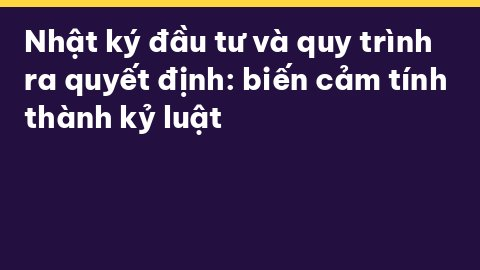
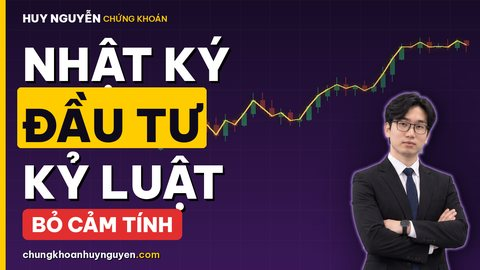
Trang chu: anh bia video moi theo mau bia kenh (chan dung anh Huy + hook), bo anh ytimg bi CSP chan
Claude-Session: https://claude.ai/code/session_01HdwfrC464x83xNtDevUcBX

diff --git a/index.html b/index.html
@@ -2115,11 +2115,11 @@ D.addEventListener('dragstart',function(e){if(e.target.closest&&e.target.closest
 D.addEventListener('keydown',function(e){var k=(e.key||'').toLowerCase(),c=e.ctrlKey||e.metaKey;if(e.key==='F12'||(c&&e.shiftKey&&(k==='i'||k==='j'||k==='c'))||(c&&(k==='u'||k==='s'))){e.preventDefault()}});
 })();
 </script>
-<script>window.HN_VS=[{"k": "LS01", "id": "scB3fSzFekk", "d": "2026-10-29", "t": "Lịch sử chứng khoán Việt Nam #1: Cả sàn chỉ có 2 mã, tăng 471% rồi mất 77% (2000–2003)"}, {"k": "BF01", "id": "S4zhXdNUhoY", "d": "2026-10-30", "t": "Giải mã 7 câu nói của Warren Buffett & Charlie Munger: mỗi câu là một quy trình đầu tư"}, {"k": "KT01", "id": "WapeULdUtQM", "d": "2026-10-31", "t": "Đọc báo cáo tài chính trong 10 phút: 3 bảng, 10 chỉ tiêu, 5 cờ đỏ (bài học Wirecard, Enron)"}, {"k": "KT02", "id": "weqzjUt7Tao", "d": "2026-11-01", "t": "Lãi kép: kỳ quan thứ 8 của đầu tư – Thí nghiệm 200 năm của Benjamin Franklin & quy tắc 72"}, {"k": "KT03", "id": "pldisvuBvUY", "d": "2026-11-02", "t": "P/E, P/B, ROE: dùng đúng và dùng sai – 3 chỉ số định giá cổ phiếu và 3 cái bẫy"}, {"k": "LS02", "id": "F8tra2F3iGU", "d": "2026-11-03", "t": "Lịch sử chứng khoán Việt Nam #2: Bong bóng lớn nhất – VN-Index 1.170 điểm rồi còn 235 điểm (2006–2009)"}, {"k": "LS03", "id": "6Umf8uUS4C4", "d": "2026-11-04", "t": "Lịch sử chứng khoán Việt Nam #3: Thời F0 – VN-Index 1.528 rồi còn 911 điểm (2021–2022)"}, {"k": "BF02", "id": "6Eo1lvK8Y00", "d": "2026-11-05", "t": "Giải mã 5 câu nói của Peter Lynch: mỗi câu là một quy trình đầu tư (Magellan 29,7%/năm)"}, {"k": "KT04", "id": "47vfi7FA1Bs", "d": "2026-11-06", "t": "Margin – con dao hai lưỡi: giảm 30% mất 60% vốn, khi nào bị call margin? Quy trình vay an toàn"}, {"k": "KT05", "id": "EKsECSpQNrc", "d": "2026-11-07", "t": "Cổ tức tiền và cổ tức cổ phiếu: ai thật sự có lợi? Cách tính giá điều chỉnh và 3 cái bẫy"}, {"k": "KT06", "id": "xzen2q75gaE", "d": "2026-11-08", "t": "Toán học của thua lỗ: lỗ 50% phải lãi 100% mới hòa vốn – cắt lỗ và quy tắc quản trị vốn 2%"}, {"k": "KT07", "id": "mjoeTck5Ovo", "d": "2026-11-09", "t": "Tâm lý đám đông: 5 sai lầm kinh điển của nhà đầu tư mới (FOMO, bầy đàn, sợ lỗ, tự tin, neo giá)"}, {"k": "LS04", "id": "y582E7BB8ig", "d": "2026-11-10", "t": "Khủng hoảng chứng khoán 2011–2012: lạm phát 18%, vụ bầu Kiên và 380 mã giảm sàn | Lịch sử CKVN #4"}, {"k": "TG01", "id": "kFDMVhWiilE", "d": "2026-11-11", "t": "Cơn sốt tulip 1637: 1 củ hoa 10.000 guilder – bong bóng hay huyền thoại? | Lịch sử CK thế giới #1"}, {"k": "BF03", "id": "1yqOFRYjbDA", "d": "2026-11-12", "t": "Giải mã tư duy Benjamin Graham: Mr. Market, biên an toàn và 5 quy trình đầu tư"}, {"k": "KT08", "id": "rTJfujto8WI", "d": "2026-11-13", "t": "Dòng tiền tự do (FCF) là gì? Vì sao quan trọng hơn lợi nhuận – cách tính trong 1 phút"}, {"k": "TG02", "id": "xe6ocbeHP9M", "d": "2026-11-14", "t": "Bong bóng South Sea 1720: Newton chốt lời, mua lại và mất 20.000 bảng | Lịch sử CK thế giới #2"}, {"k": "LS05", "id": "Tn8B0YZcCtc", "d": "2026-11-15", "t": "Năm 2018: VN-Index đỉnh 1.204, thương vụ Vinhomes 1,35 tỷ USD rồi mất 27% | Lịch sử CKVN #5"}, {"k": "KT12", "id": "kPGoPOunTMY", "d": "2026-11-16", "t": "Đầu tư hay đầu cơ? Định nghĩa của Benjamin Graham và 4 bước tự kiểm tra"}, {"k": "TG03", "id": "vjcZ5iK4j_c", "d": "2026-11-17", "t": "Đại khủng hoảng 1929: Dow Jones mất 89%, 25 năm mới về đỉnh | Lịch sử CK thế giới #3"}, {"k": "BF04", "id": "CZUxmgJ2QZc", "d": "2026-11-18", "t": "Giải mã tư duy Howard Marks: Tư duy bậc hai, con lắc tâm lý và 5 quy trình đầu tư"}, {"k": "KT09", "id": "6bfo543qlUY", "d": "2026-11-19", "t": "Đọc báo cáo tài chính ngân hàng: 7 chỉ số NIM, CASA, nợ xấu, bao phủ, CIR, ROE, LDR"}, {"k": "LS06", "id": "Ifb1x5N2X9U", "d": "2026-11-20", "t": "Covid 2020: VN-Index đáy 659 điểm rồi hồi phục 67% trong 9 tháng | Lịch sử CKVN #6"}, {"k": "TG04", "id": "TjF96wgJYbE", "d": "2026-11-21", "t": "Thứ Hai Đen tối 1987: Dow Jones mất 22,6% trong 1 ngày – vì sao? | Lịch sử CK thế giới #4"}, {"k": "BF05", "id": "WYEm-Zj76Fg", "d": "2026-11-22", "t": "Jesse Livermore: kiếm 100 triệu USD năm 1929 rồi phá sản – bài học quản trị rủi ro"}, {"k": "KT10", "id": "8495Ydb8BC4", "d": "2026-11-23", "t": "Đầu tư định kỳ DCA và quỹ ETF: mỗi tháng 3 triệu cho người bận rộn (ví dụ E1VFVN30)"}, {"k": "TG05", "id": "ncr7BQdFf-4", "d": "2026-11-24", "t": "Bong bóng dot-com 2000: Nasdaq mất 78%, 15 năm mới về đỉnh | Lịch sử CK thế giới #5"}, {"k": "LS07", "id": "YNq2pD0mEtE", "d": "2026-11-25", "t": "Nâng hạng chứng khoán Việt Nam: FTSE đã xong, MSCI còn bao xa? Dòng vốn ngoại thật sự ra sao"}, {"k": "BF06", "id": "AxwZ_UaRx6o", "d": "2026-11-26", "t": "Philip Fisher: 15 điểm chọn cổ phiếu tăng trưởng gom thành 5 quy trình (phương pháp scuttlebutt)"}, {"k": "TG06", "id": "FYQZaQ-F3TY", "d": "2026-11-27", "t": "Khủng hoảng tài chính châu Á 1997: Từ đồng baht đến 227 tấn vàng | Lịch sử chứng khoán thế giới"}, {"k": "KT11", "id": "pPkbeD1DAuc", "d": "2026-11-28", "t": "Cổ phiếu chu kỳ: vì sao P/E thấp lại có thể là đỉnh? Quy trình 4 bước cho thép, chứng khoán, BĐS"}, {"k": "TG07", "id": "ErsNPq8L8Cs", "d": "2026-11-29", "t": "Bong bóng Nhật Bản 1989: Nikkei mất 34 năm mới về đỉnh | Lịch sử chứng khoán thế giới"}, {"k": "TG08", "id": "0fDUPfCq5rI", "d": "2026-11-30", "t": "Cơn sốt GameStop 2021: Reddit, short squeeze và nút mua bị chặn | Lịch sử chứng khoán thế giới"}, {"k": "BF_CT0711F", "id": "nce6hMUU5Vg", "d": "2026-11-24", "t": "Giải mã 5 câu nói của John Bogle: mua cả đống rơm và vụ cá cược 1 triệu USD của Buffett", "h": "12:00", "f": "CT0711F"}, {"k": "BF_CT0711E", "id": "gxDQ_gjYsqE", "d": "2026-11-23", "t": "Lệnh mua đầu tiên của Warren Buffett năm 11 tuổi: lỗ 30% và 3 bài học suốt 80 năm", "h": "12:00", "f": "CT0711E"}, {"k": "BF_CT0711D", "id": "oSw7y4iT6zw", "d": "2026-11-22", "t": "3 cổ phiếu 180 USD thành 7 triệu USD: câu chuyện 75 năm không bán của Grace Groner", "h": "12:00", "f": "CT0711D"}, {"k": "BF_CT0711C", "id": "I-jHKJ8kggk", "d": "2026-11-21", "t": "Jesse Livermore: thắng 100 triệu USD năm 1929 rồi phá sản – bài học quản trị vốn", "h": "12:00", "f": "CT0711C"}, {"k": "BF_CT0711B", "id": "WLs3OiVRRGE", "d": "2026-11-20", "t": "Người gác cổng để lại 8 triệu USD: câu chuyện có thật của Ronald Read và 4 bài học đầu tư", "h": "12:00", "f": "CT0711B"}, {"k": "BF_CT0711A", "id": "VOmGFSJX8Eo", "d": "2026-11-19", "t": "Giải mã 7 câu nói của Charlie Munger: mỗi câu là một quy trình đầu tư", "h": "12:00", "f": "CT0711A"}, {"k": "KT_CH1411C", "id": "RzZo13CAKKg", "d": "2026-11-17", "t": "Quản trị vốn | Lỗ 50% phải lãi 100% mới hòa: toán học của cắt lỗ và tỷ trọng", "h": "12:00", "f": "CH1411C"}, {"k": "BC_CH1411B", "id": "vFlSAICPI50", "d": "2026-11-17", "t": "Định giá ngân hàng | P/B thấp chưa chắc rẻ: đọc P/B cùng ROE qua số liệu 12 ngân hàng", "h": "07:00", "f": "CH1411B"}, {"k": "BC_CH1611B", "id": "NIuqvgnA954", "d": "2026-11-16", "t": "Đọc BCTC 5 phút | HDB: lãi quý giảm 30,7% nhưng thu nhập lãi thuần vẫn +19,6%", "h": "12:00", "f": "CH1611B", "y": 1}, {"k": "BC_CH1611A", "id": "kX9ZJeXvg54", "d": "2026-11-16", "t": "Đọc BCTC 5 phút | TPB: lãi quý +57,4% nhưng nợ xấu nhích lên 2,10%", "h": "07:00", "f": "CH1611A", "y": 1}, {"k": "BC_CH1511B", "id": "8WYmGeB1vCE", "d": "2026-11-15", "t": "Định giá | P/E thấp có rẻ không? Một quý lợi nhuận có thể làm méo P/E", "h": "12:00", "f": "CH1511B", "y": 1}, {"k": "BC_CH1511A", "id": "UWuA8L2dofA", "d": "2026-11-15", "t": "Đọc BCTC 5 phút | VPB: nợ xấu 3,12% mà lợi nhuận 9 tháng vẫn +44,9%", "h": "07:00", "f": "CH1511A", "y": 1}, {"k": "BC_CH0811B", "id": "RbYtmn8Bnsg", "d": "2026-11-14", "t": "Tăng trưởng và định giá: PEG, biên an toàn và vì sao không có con số kỳ diệu", "h": "12:00", "f": "CH0811B", "y": 1}, {"k": "BC_CH1411A", "id": "KWzcJ4-xLwo", "d": "2026-11-14", "t": "Đọc BCTC 5 phút | TCB: lợi nhuận +23,7% nhưng chi phí dự phòng giảm 38,8%", "h": "07:00", "f": "CH1411A", "y": 1}, {"k": "LS_CH1311C", "id": "Cj4SpUjaZIc", "d": "2026-11-13", "t": "Bài học lịch sử | 2021–2022: VN-Index từ khoảng 1.529 xuống khoảng 874 điểm", "h": "12:00", "f": "CH1311C", "y": 1}, {"k": "BC_CH1311A", "id": "p1WIrjOOSBQ", "d": "2026-11-13", "t": "Đọc BCTC 5 phút | ACB: thu nhập lãi thuần +21,1% nhưng lãi ròng chỉ +9,8%", "h": "07:00", "f": "CH1311A", "y": 1}, {"k": "BC_CH1211B", "id": "lMJgLmXF108", "d": "2026-11-12", "t": "ROE và phân tích DuPont: cùng ROE 20% nhưng rủi ro khác nhau thế nào?", "h": "12:00", "f": "CH1211B", "y": 1}, {"k": "BC_CH1211A", "id": "R2y3PebFdeE", "d": "2026-11-12", "t": "Đọc BCTC 5 phút | HPG: lợi nhuận +106% nhưng chi phí lãi vay +118%", "h": "07:00", "f": "CH1211A", "y": 1}, {"k": "BC_CH1111B", "id": "CralJlEYBdM", "d": "2026-11-11", "t": "Dòng tiền kinh doanh: vì sao doanh nghiệp báo lãi vẫn có thể cạn tiền?", "h": "12:00", "f": "CH1111B", "y": 1}, {"k": "BC_CH1111A", "id": "y3_Ax6NsKJo", "d": "2026-11-11", "t": "Đọc BCTC 5 phút | MBB: lợi nhuận quý 3 +44,3% nhưng nợ xấu cũng tăng", "h": "07:00", "f": "CH1111A", "y": 1}, {"k": "KT_CH1011B", "id": "kopCX0gRwrQ", "d": "2026-11-10", "t": "Gửi tiết kiệm an toàn? Chưa chắc: lãi thực, lạm phát và sức mua sau 10 năm", "h": "12:00", "f": "CH1011B", "y": 1}, {"k": "BC_CH1011A", "id": "GAgFD9gqhbU", "d": "2026-11-10", "t": "Đọc BCTC 5 phút | VCB: lợi nhuận +0,1% nhưng thu nhập lãi thuần +39,1%", "h": "07:00", "f": "CH1011A", "y": 1}, {"k": "KT_CH0911B", "id": "TysF6gcomxY", "d": "2026-11-09", "t": "Nhật ký đầu tư và quy trình ra quyết định: biến cảm tính thành kỷ luật", "h": "12:00", "f": "CH0911B", "y": 1}, {"k": "BC_CH0911A", "id": "ZQ52qOt2UYU", "d": "2026-11-09", "t": "Hàng tồn kho và khoản phải thu: những cờ đỏ trong báo cáo tài chính", "h": "07:00", "f": "CH0911A", "y": 1}, {"k": "LS_YT_Zm_z55FE2x4", "id": "Zm_z55FE2x4", "d": "2026-11-08", "t": "Từ 1.170 xuống 235 điểm: cú sập 2008 dạy gì về đòn bẩy và tâm lý", "y": 1, "h": "06:00"}, {"k": "BC_YT_CpzzD_hQp08", "id": "CpzzD-hQp08", "d": "2026-11-08", "t": "Cổ phiếu ngành chu kỳ: vì sao P/E thấp chưa chắc rẻ?", "y": 1, "h": "06:00"}, {"k": "KT_YT_ubW2r_DysOQ", "id": "ubW2r-DysOQ", "d": "2026-11-08", "t": "Phân bổ danh mục: bao nhiêu mã, bao nhiêu phần trăm mỗi mã là hợp lý?", "y": 1, "h": "06:00"}, {"k": "BC_YT_TkhhRZTcavo", "id": "TkhhRZTcavo", "d": "2026-11-07", "t": "Báo cáo lưu chuyển tiền tệ: lợi nhuận có thật khi tiền không về túi?", "y": 1, "h": "06:00"}, {"k": "KT_YT_G_JB67u24RQ", "id": "G_JB67u24RQ", "d": "2026-11-07", "t": "Lãi kép và tích sản: vì sao thời gian quan trọng hơn số tiền anh chị có", "y": 1, "h": "06:00"}, {"k": "BC_YT_hlRGGFESZNg", "id": "hlRGGFESZNg", "d": "2026-11-07", "t": "P/B và ROE: định giá cổ phiếu ngân hàng không cần công thức phức tạp", "y": 1, "h": "06:00"}, {"k": "LS_YT_0bCtOvCL0l0", "id": "0bCtOvCL0l0", "d": "2026-11-06", "t": "Bong bóng chứng khoán 2007: VN-Index từ 1.170 điểm và những bài học còn nguyên", "y": 1, "h": "06:00"}, {"k": "BC_YT_s6UGOcw7Rqg", "id": "s6UGOcw7Rqg", "d": "2026-11-06", "t": "Đọc bảng cân đối kế toán: nợ vay, hàng tồn kho, khoản phải thu và vốn chủ sở hữu", "y": 1, "h": "06:00"}]</script>
+<script>window.HN_VS=[{"k": "LS01", "id": "scB3fSzFekk", "d": "2026-10-29", "t": "Lịch sử chứng khoán Việt Nam #1: Cả sàn chỉ có 2 mã, tăng 471% rồi mất 77% (2000–2003)"}, {"k": "BF01", "id": "S4zhXdNUhoY", "d": "2026-10-30", "t": "Giải mã 7 câu nói của Warren Buffett & Charlie Munger: mỗi câu là một quy trình đầu tư"}, {"k": "KT01", "id": "WapeULdUtQM", "d": "2026-10-31", "t": "Đọc báo cáo tài chính trong 10 phút: 3 bảng, 10 chỉ tiêu, 5 cờ đỏ (bài học Wirecard, Enron)"}, {"k": "KT02", "id": "weqzjUt7Tao", "d": "2026-11-01", "t": "Lãi kép: kỳ quan thứ 8 của đầu tư – Thí nghiệm 200 năm của Benjamin Franklin & quy tắc 72"}, {"k": "KT03", "id": "pldisvuBvUY", "d": "2026-11-02", "t": "P/E, P/B, ROE: dùng đúng và dùng sai – 3 chỉ số định giá cổ phiếu và 3 cái bẫy"}, {"k": "LS02", "id": "F8tra2F3iGU", "d": "2026-11-03", "t": "Lịch sử chứng khoán Việt Nam #2: Bong bóng lớn nhất – VN-Index 1.170 điểm rồi còn 235 điểm (2006–2009)"}, {"k": "LS03", "id": "6Umf8uUS4C4", "d": "2026-11-04", "t": "Lịch sử chứng khoán Việt Nam #3: Thời F0 – VN-Index 1.528 rồi còn 911 điểm (2021–2022)"}, {"k": "BF02", "id": "6Eo1lvK8Y00", "d": "2026-11-05", "t": "Giải mã 5 câu nói của Peter Lynch: mỗi câu là một quy trình đầu tư (Magellan 29,7%/năm)"}, {"k": "KT04", "id": "47vfi7FA1Bs", "d": "2026-11-06", "t": "Margin – con dao hai lưỡi: giảm 30% mất 60% vốn, khi nào bị call margin? Quy trình vay an toàn"}, {"k": "KT05", "id": "EKsECSpQNrc", "d": "2026-11-07", "t": "Cổ tức tiền và cổ tức cổ phiếu: ai thật sự có lợi? Cách tính giá điều chỉnh và 3 cái bẫy"}, {"k": "KT06", "id": "xzen2q75gaE", "d": "2026-11-08", "t": "Toán học của thua lỗ: lỗ 50% phải lãi 100% mới hòa vốn – cắt lỗ và quy tắc quản trị vốn 2%"}, {"k": "KT07", "id": "mjoeTck5Ovo", "d": "2026-11-09", "t": "Tâm lý đám đông: 5 sai lầm kinh điển của nhà đầu tư mới (FOMO, bầy đàn, sợ lỗ, tự tin, neo giá)"}, {"k": "LS04", "id": "y582E7BB8ig", "d": "2026-11-10", "t": "Khủng hoảng chứng khoán 2011–2012: lạm phát 18%, vụ bầu Kiên và 380 mã giảm sàn | Lịch sử CKVN #4"}, {"k": "TG01", "id": "kFDMVhWiilE", "d": "2026-11-11", "t": "Cơn sốt tulip 1637: 1 củ hoa 10.000 guilder – bong bóng hay huyền thoại? | Lịch sử CK thế giới #1"}, {"k": "BF03", "id": "1yqOFRYjbDA", "d": "2026-11-12", "t": "Giải mã tư duy Benjamin Graham: Mr. Market, biên an toàn và 5 quy trình đầu tư"}, {"k": "KT08", "id": "rTJfujto8WI", "d": "2026-11-13", "t": "Dòng tiền tự do (FCF) là gì? Vì sao quan trọng hơn lợi nhuận – cách tính trong 1 phút"}, {"k": "TG02", "id": "xe6ocbeHP9M", "d": "2026-11-14", "t": "Bong bóng South Sea 1720: Newton chốt lời, mua lại và mất 20.000 bảng | Lịch sử CK thế giới #2"}, {"k": "LS05", "id": "Tn8B0YZcCtc", "d": "2026-11-15", "t": "Năm 2018: VN-Index đỉnh 1.204, thương vụ Vinhomes 1,35 tỷ USD rồi mất 27% | Lịch sử CKVN #5"}, {"k": "KT12", "id": "kPGoPOunTMY", "d": "2026-11-16", "t": "Đầu tư hay đầu cơ? Định nghĩa của Benjamin Graham và 4 bước tự kiểm tra"}, {"k": "TG03", "id": "vjcZ5iK4j_c", "d": "2026-11-17", "t": "Đại khủng hoảng 1929: Dow Jones mất 89%, 25 năm mới về đỉnh | Lịch sử CK thế giới #3"}, {"k": "BF04", "id": "CZUxmgJ2QZc", "d": "2026-11-18", "t": "Giải mã tư duy Howard Marks: Tư duy bậc hai, con lắc tâm lý và 5 quy trình đầu tư"}, {"k": "KT09", "id": "6bfo543qlUY", "d": "2026-11-19", "t": "Đọc báo cáo tài chính ngân hàng: 7 chỉ số NIM, CASA, nợ xấu, bao phủ, CIR, ROE, LDR"}, {"k": "LS06", "id": "Ifb1x5N2X9U", "d": "2026-11-20", "t": "Covid 2020: VN-Index đáy 659 điểm rồi hồi phục 67% trong 9 tháng | Lịch sử CKVN #6"}, {"k": "TG04", "id": "TjF96wgJYbE", "d": "2026-11-21", "t": "Thứ Hai Đen tối 1987: Dow Jones mất 22,6% trong 1 ngày – vì sao? | Lịch sử CK thế giới #4"}, {"k": "BF05", "id": "WYEm-Zj76Fg", "d": "2026-11-22", "t": "Jesse Livermore: kiếm 100 triệu USD năm 1929 rồi phá sản – bài học quản trị rủi ro"}, {"k": "KT10", "id": "8495Ydb8BC4", "d": "2026-11-23", "t": "Đầu tư định kỳ DCA và quỹ ETF: mỗi tháng 3 triệu cho người bận rộn (ví dụ E1VFVN30)"}, {"k": "TG05", "id": "ncr7BQdFf-4", "d": "2026-11-24", "t": "Bong bóng dot-com 2000: Nasdaq mất 78%, 15 năm mới về đỉnh | Lịch sử CK thế giới #5"}, {"k": "LS07", "id": "YNq2pD0mEtE", "d": "2026-11-25", "t": "Nâng hạng chứng khoán Việt Nam: FTSE đã xong, MSCI còn bao xa? Dòng vốn ngoại thật sự ra sao"}, {"k": "BF06", "id": "AxwZ_UaRx6o", "d": "2026-11-26", "t": "Philip Fisher: 15 điểm chọn cổ phiếu tăng trưởng gom thành 5 quy trình (phương pháp scuttlebutt)"}, {"k": "TG06", "id": "FYQZaQ-F3TY", "d": "2026-11-27", "t": "Khủng hoảng tài chính châu Á 1997: Từ đồng baht đến 227 tấn vàng | Lịch sử chứng khoán thế giới"}, {"k": "KT11", "id": "pPkbeD1DAuc", "d": "2026-11-28", "t": "Cổ phiếu chu kỳ: vì sao P/E thấp lại có thể là đỉnh? Quy trình 4 bước cho thép, chứng khoán, BĐS"}, {"k": "TG07", "id": "ErsNPq8L8Cs", "d": "2026-11-29", "t": "Bong bóng Nhật Bản 1989: Nikkei mất 34 năm mới về đỉnh | Lịch sử chứng khoán thế giới"}, {"k": "TG08", "id": "0fDUPfCq5rI", "d": "2026-11-30", "t": "Cơn sốt GameStop 2021: Reddit, short squeeze và nút mua bị chặn | Lịch sử chứng khoán thế giới"}, {"k": "BF_CT0711F", "id": "nce6hMUU5Vg", "d": "2026-11-24", "t": "Giải mã 5 câu nói của John Bogle: mua cả đống rơm và vụ cá cược 1 triệu USD của Buffett", "h": "12:00", "f": "CT0711F"}, {"k": "BF_CT0711E", "id": "gxDQ_gjYsqE", "d": "2026-11-23", "t": "Lệnh mua đầu tiên của Warren Buffett năm 11 tuổi: lỗ 30% và 3 bài học suốt 80 năm", "h": "12:00", "f": "CT0711E"}, {"k": "BF_CT0711D", "id": "oSw7y4iT6zw", "d": "2026-11-22", "t": "3 cổ phiếu 180 USD thành 7 triệu USD: câu chuyện 75 năm không bán của Grace Groner", "h": "12:00", "f": "CT0711D"}, {"k": "BF_CT0711C", "id": "I-jHKJ8kggk", "d": "2026-11-21", "t": "Jesse Livermore: thắng 100 triệu USD năm 1929 rồi phá sản – bài học quản trị vốn", "h": "12:00", "f": "CT0711C"}, {"k": "BF_CT0711B", "id": "WLs3OiVRRGE", "d": "2026-11-20", "t": "Người gác cổng để lại 8 triệu USD: câu chuyện có thật của Ronald Read và 4 bài học đầu tư", "h": "12:00", "f": "CT0711B"}, {"k": "BF_CT0711A", "id": "VOmGFSJX8Eo", "d": "2026-11-19", "t": "Giải mã 7 câu nói của Charlie Munger: mỗi câu là một quy trình đầu tư", "h": "12:00", "f": "CT0711A"}, {"k": "KT_CH1411C", "id": "RzZo13CAKKg", "d": "2026-11-17", "t": "Quản trị vốn | Lỗ 50% phải lãi 100% mới hòa: toán học của cắt lỗ và tỷ trọng", "h": "12:00", "f": "CH1411C"}, {"k": "BC_CH1411B", "id": "vFlSAICPI50", "d": "2026-11-17", "t": "Định giá ngân hàng | P/B thấp chưa chắc rẻ: đọc P/B cùng ROE qua số liệu 12 ngân hàng", "h": "07:00", "f": "CH1411B"}, {"k": "BC_CH1611B", "id": "NIuqvgnA954", "d": "2026-11-16", "t": "Đọc BCTC 5 phút | HDB: lãi quý giảm 30,7% nhưng thu nhập lãi thuần vẫn +19,6%", "h": "12:00", "f": "CH1611B"}, {"k": "BC_CH1611A", "id": "kX9ZJeXvg54", "d": "2026-11-16", "t": "Đọc BCTC 5 phút | TPB: lãi quý +57,4% nhưng nợ xấu nhích lên 2,10%", "h": "07:00", "f": "CH1611A"}, {"k": "BC_CH1511B", "id": "8WYmGeB1vCE", "d": "2026-11-15", "t": "Định giá | P/E thấp có rẻ không? Một quý lợi nhuận có thể làm méo P/E", "h": "12:00", "f": "CH1511B"}, {"k": "BC_CH1511A", "id": "UWuA8L2dofA", "d": "2026-11-15", "t": "Đọc BCTC 5 phút | VPB: nợ xấu 3,12% mà lợi nhuận 9 tháng vẫn +44,9%", "h": "07:00", "f": "CH1511A"}, {"k": "BC_CH0811B", "id": "RbYtmn8Bnsg", "d": "2026-11-14", "t": "Tăng trưởng và định giá: PEG, biên an toàn và vì sao không có con số kỳ diệu", "h": "12:00", "f": "CH0811B"}, {"k": "BC_CH1411A", "id": "KWzcJ4-xLwo", "d": "2026-11-14", "t": "Đọc BCTC 5 phút | TCB: lợi nhuận +23,7% nhưng chi phí dự phòng giảm 38,8%", "h": "07:00", "f": "CH1411A"}, {"k": "LS_CH1311C", "id": "Cj4SpUjaZIc", "d": "2026-11-13", "t": "Bài học lịch sử | 2021–2022: VN-Index từ khoảng 1.529 xuống khoảng 874 điểm", "h": "12:00", "f": "CH1311C"}, {"k": "BC_CH1311A", "id": "p1WIrjOOSBQ", "d": "2026-11-13", "t": "Đọc BCTC 5 phút | ACB: thu nhập lãi thuần +21,1% nhưng lãi ròng chỉ +9,8%", "h": "07:00", "f": "CH1311A"}, {"k": "BC_CH1211B", "id": "lMJgLmXF108", "d": "2026-11-12", "t": "ROE và phân tích DuPont: cùng ROE 20% nhưng rủi ro khác nhau thế nào?", "h": "12:00", "f": "CH1211B"}, {"k": "BC_CH1211A", "id": "R2y3PebFdeE", "d": "2026-11-12", "t": "Đọc BCTC 5 phút | HPG: lợi nhuận +106% nhưng chi phí lãi vay +118%", "h": "07:00", "f": "CH1211A"}, {"k": "BC_CH1111B", "id": "CralJlEYBdM", "d": "2026-11-11", "t": "Dòng tiền kinh doanh: vì sao doanh nghiệp báo lãi vẫn có thể cạn tiền?", "h": "12:00", "f": "CH1111B"}, {"k": "BC_CH1111A", "id": "y3_Ax6NsKJo", "d": "2026-11-11", "t": "Đọc BCTC 5 phút | MBB: lợi nhuận quý 3 +44,3% nhưng nợ xấu cũng tăng", "h": "07:00", "f": "CH1111A"}, {"k": "KT_CH1011B", "id": "kopCX0gRwrQ", "d": "2026-11-10", "t": "Gửi tiết kiệm an toàn? Chưa chắc: lãi thực, lạm phát và sức mua sau 10 năm", "h": "12:00", "f": "CH1011B"}, {"k": "BC_CH1011A", "id": "GAgFD9gqhbU", "d": "2026-11-10", "t": "Đọc BCTC 5 phút | VCB: lợi nhuận +0,1% nhưng thu nhập lãi thuần +39,1%", "h": "07:00", "f": "CH1011A"}, {"k": "KT_CH0911B", "id": "TysF6gcomxY", "d": "2026-11-09", "t": "Nhật ký đầu tư và quy trình ra quyết định: biến cảm tính thành kỷ luật", "h": "12:00", "f": "CH0911B"}, {"k": "BC_CH0911A", "id": "ZQ52qOt2UYU", "d": "2026-11-09", "t": "Hàng tồn kho và khoản phải thu: những cờ đỏ trong báo cáo tài chính", "h": "07:00", "f": "CH0911A"}, {"k": "LS_YT_Zm_z55FE2x4", "id": "Zm_z55FE2x4", "d": "2026-11-08", "t": "Từ 1.170 xuống 235 điểm: cú sập 2008 dạy gì về đòn bẩy và tâm lý", "h": "06:00", "f": "YT_Zm_z55FE2x4"}, {"k": "BC_YT_CpzzD_hQp08", "id": "CpzzD-hQp08", "d": "2026-11-08", "t": "Cổ phiếu ngành chu kỳ: vì sao P/E thấp chưa chắc rẻ?", "h": "06:00", "f": "YT_CpzzD_hQp08"}, {"k": "KT_YT_ubW2r_DysOQ", "id": "ubW2r-DysOQ", "d": "2026-11-08", "t": "Phân bổ danh mục: bao nhiêu mã, bao nhiêu phần trăm mỗi mã là hợp lý?", "h": "06:00", "f": "YT_ubW2r_DysOQ"}, {"k": "BC_YT_TkhhRZTcavo", "id": "TkhhRZTcavo", "d": "2026-11-07", "t": "Báo cáo lưu chuyển tiền tệ: lợi nhuận có thật khi tiền không về túi?", "h": "06:00", "f": "YT_TkhhRZTcavo"}, {"k": "KT_YT_G_JB67u24RQ", "id": "G_JB67u24RQ", "d": "2026-11-07", "t": "Lãi kép và tích sản: vì sao thời gian quan trọng hơn số tiền anh chị có", "h": "06:00", "f": "YT_G_JB67u24RQ"}, {"k": "BC_YT_hlRGGFESZNg", "id": "hlRGGFESZNg", "d": "2026-11-07", "t": "P/B và ROE: định giá cổ phiếu ngân hàng không cần công thức phức tạp", "h": "06:00", "f": "YT_hlRGGFESZNg"}, {"k": "LS_YT_0bCtOvCL0l0", "id": "0bCtOvCL0l0", "d": "2026-11-06", "t": "Bong bóng chứng khoán 2007: VN-Index từ 1.170 điểm và những bài học còn nguyên", "h": "06:00", "f": "YT_0bCtOvCL0l0"}, {"k": "BC_YT_s6UGOcw7Rqg", "id": "s6UGOcw7Rqg", "d": "2026-11-06", "t": "Đọc bảng cân đối kế toán: nợ vay, hàng tồn kho, khoản phải thu và vốn chủ sở hữu", "h": "06:00", "f": "YT_s6UGOcw7Rqg"}]</script>
 <script>
 (function(){var V=window.HN_VS||[],g=document.getElementById('vsg');if(!g)return;
 var now=Date.now(),cur='LS';
-function card(v){var t=v.t.replace(/\s*\|\s*Lịch sử (CKVN|CK thế giới) #\d+\s*$/,''),h=v.h||'20:00',at=Date.parse(v.d+'T'+h+':00+07:00'),on=now>=at,dd=v.d.slice(8,10)+'/'+v.d.slice(5,7),im=(on&&v.y)||(v.y&&!v.f)?'https://i.ytimg.com/vi/'+v.id+'/hqdefault.jpg':'img/yt/'+(v.f||v.k)+'.jpg';
+function card(v){var t=v.t.replace(/\s*\|\s*Lịch sử (CKVN|CK thế giới) #\d+\s*$/,''),h=v.h||'20:00',at=Date.parse(v.d+'T'+h+':00+07:00'),on=now>=at,dd=v.d.slice(8,10)+'/'+v.d.slice(5,7),im='img/yt/'+(v.f||v.k)+'.jpg';
  return '<a class="vs-c'+(on?'':' soon')+'" href="'+(on?'https://youtu.be/'+v.id:'https://www.youtube.com/@chungkhoanhuynguyen?sub_confirmation=1')+'" target="_blank" rel="noopener"><div class="vs-th" style="background-image:url('+im+')"><i>'+(on?'▶ Xem video':'Ra mắt '+h+' · '+dd)+'</i></div><div class="vs-b"><b>'+t.replace(/</g,'&lt;')+'</b><small>'+(on?'Đã phát hành '+dd:'Bấm để đăng ký kênh, nhận thông báo')+'</small></div></a>'}
 function ts(v){return Date.parse(v.d+'T'+(v.h||'20:00')+':00+07:00')}
 function draw(){var L=V.filter(function(v){return v.k.slice(0,2)===cur}).sort(function(a,b){return ts(a)-ts(b)});
